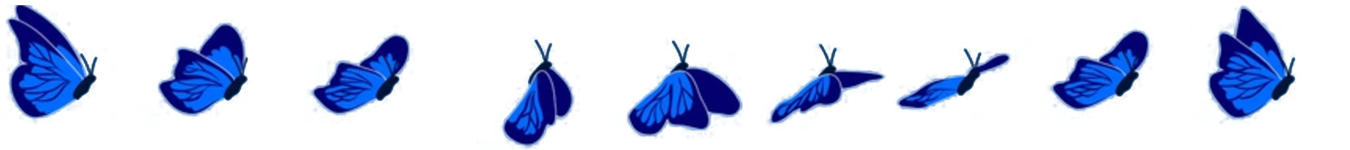
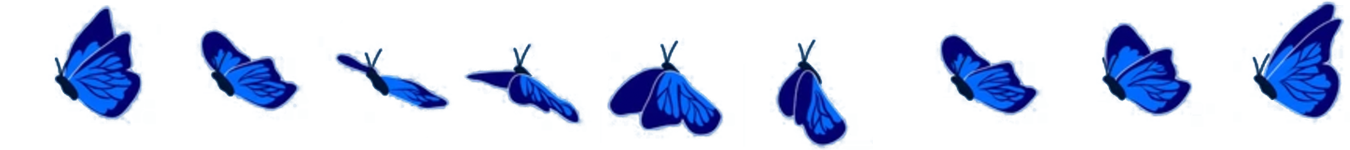
splash and sprites

diff --git a/server.js b/server.js
@@ -24,8 +24,9 @@ try {
   };
 }
 
-// Store client colors
+// Store client colors and their indices
 const clientColors = new Map();
+const clientColorIndices = new Map();
 
 // Serve static files from public directory
 app.use(express.static("public"));
@@ -46,19 +47,22 @@ io.on("connection", (socket) => {
   }
 
   // Assign a random color to new client
-  const randomColor = settings.colors[Math.floor(Math.random() * settings.colors.length)];
+  const colorIndex = Math.floor(Math.random() * settings.colors.length);
+  const randomColor = settings.colors[colorIndex];
   clientColors.set(socket.id, randomColor);
+  clientColorIndices.set(socket.id, colorIndex);
 
-  // Send the assigned color and canvas settings to the client
+  // Send the assigned color, color index, and canvas settings to the client
   socket.emit("assigned-color", {
     color: randomColor,
-    canvasSettings: settings.canvas,
-    drawingSettings: settings.drawing,
-    uiSettings: settings.ui,
+    colorIndex: colorIndex,
+    canvasSettings: settings.canvas || null,
+    drawingSettings: settings.drawing || null,
+    uiSettings: settings.ui || null,
   });
 
   if (settings.server.enableLogging) {
-    console.log(`Assigned color ${randomColor} to client ${socket.id}`);
+    console.log(`Assigned color ${randomColor} (index ${colorIndex}) to client ${socket.id}`);
   }
 
   // Handle drawing data
@@ -66,6 +70,7 @@ io.on("connection", (socket) => {
     // Add client ID and their assigned color to the drawing data
     data.clientId = socket.id;
     data.color = clientColors.get(socket.id) || "#000000";
+    data.colorIndex = clientColorIndices.get(socket.id) || 0;
     // Broadcast to display clients only
     io.to("display").emit("drawing", data);
   });
@@ -75,6 +80,7 @@ io.on("connection", (socket) => {
     // Add client ID and their assigned color
     data.clientId = socket.id;
     data.color = clientColors.get(socket.id) || "#000000";
+    data.colorIndex = clientColorIndices.get(socket.id) || 0;
     io.to("display").emit("cursor-position", data);
   });
 
@@ -93,8 +99,9 @@ io.on("connection", (socket) => {
     if (settings.server.enableLogging) {
       console.log("User disconnected:", socket.id);
     }
-    // Remove client color from memory
+    // Remove client color and index from memory
     clientColors.delete(socket.id);
+    clientColorIndices.delete(socket.id);
     // Tell display clients to remove this cursor
     io.to("display").emit("client-disconnected", { clientId: socket.id });
   });

diff --git a/public/js/display.js b/public/js/display.js
@@ -68,10 +68,18 @@ function setup() {
 
     // Create dragon if it doesn't exist
     if (!dragons[clientId]) {
-      let randomAnimation = random(animations);
+      // Use color index to select sprite sheet, with fallback to first animation if index is out of bounds
+      let selectedAnimation;
+      if (data.colorIndex !== undefined && data.colorIndex < animations.length) {
+        selectedAnimation = animations[data.colorIndex];
+        console.log(`Using sprite sheet index ${data.colorIndex} for client ${clientId}`);
+      } else {
+        selectedAnimation = animations[0] || random(animations); // Fallback to first or random if index invalid
+        console.log(`Color index ${data.colorIndex} out of bounds, using fallback for client ${clientId}`);
+      }
 
-      dragons[clientId] = new Dragon(clientId, data.color, randomAnimation, settings.dragon);
-      console.log(`Created dragon for client ${clientId}`);
+      dragons[clientId] = new Dragon(clientId, data.color, selectedAnimation, settings.dragon);
+      console.log(`Created dragon for client ${clientId} with color index ${data.colorIndex}`);
     }
 
     // Denormalize coordinates before using them
@@ -87,10 +95,18 @@ function setup() {
 
     // Create dragon if it doesn't exist
     if (!dragons[clientId]) {
-      // Get random animation
-      let randomAnimation = random(animations);
-      dragons[clientId] = new Dragon(clientId, data.color, randomAnimation, settings.dragon);
-      console.log(`Created dragon for client ${clientId} with random animation`);
+      // Use color index to select sprite sheet, with fallback to first animation if index is out of bounds
+      let selectedAnimation;
+      if (data.colorIndex !== undefined && data.colorIndex < animations.length) {
+        selectedAnimation = animations[data.colorIndex];
+        console.log(`Using sprite sheet index ${data.colorIndex} for client ${clientId}`);
+      } else {
+        selectedAnimation = animations[0] || random(animations); // Fallback to first or random if index invalid
+        console.log(`Color index ${data.colorIndex} out of bounds, using fallback for client ${clientId}`);
+      }
+
+      dragons[clientId] = new Dragon(clientId, data.color, selectedAnimation, settings.dragon);
+      console.log(`Created dragon for client ${clientId} with color index ${data.colorIndex}`);
     }
 
     // Denormalize coordinates before using them

diff --git a/public/js/drawing.js b/public/js/drawing.js
@@ -4,6 +4,7 @@ let prevX, prevY;
 let lastMouseX = -1;
 let lastMouseY = -1;
 let myColor = "#000000"; // Default color until server assigns one
+let myColorIndex = 0; // Default color index until server assigns one
 let canvasSettings = { width: 800, height: 600, backgroundColor: "red" };
 let drawingSettings = { strokeWeight: 3 };
 let uiSettings = { showClientIds: true };
@@ -16,7 +17,6 @@ function normalizeCoords(x, y) {
     y: map(y, 0, height, 0, 1),
   };
 }
-31;
 
 // Helper function to denormalize coordinates (for receiving from server)
 function denormalizeCoords(normalizedX, normalizedY) {
@@ -67,6 +67,8 @@ function setup() {
   // Listen for assigned color and settings from server
   socket.on("assigned-color", (data) => {
     myColor = data.color;
+    myColorIndex = data.colorIndex;
+
     // Update settings from server if provided
     if (data.canvasSettings) {
       canvasSettings = data.canvasSettings;
@@ -83,6 +85,7 @@ function setup() {
     }
 
     console.log("Assigned color:", myColor);
+    console.log("Assigned color index:", myColorIndex);
     console.log("Canvas settings2:", data.canvasSettings);
     background(canvasSettings.backgroundColor);
 

diff --git a/public/js/dragon.js b/public/js/dragon.js
@@ -171,10 +171,10 @@ class Dragon {
 
     const { angle, shouldFlip } = this._calculateHeadOrientation();
 
-    if (!shouldFlip) {
+    if (shouldFlip) {
       scale(-1, 1);
     }
-    rotate(angle);
+    // rotate(angle);
     this.animation.draw(
       -this.config.headSize / 2,
       -this.config.headSize / 2,
